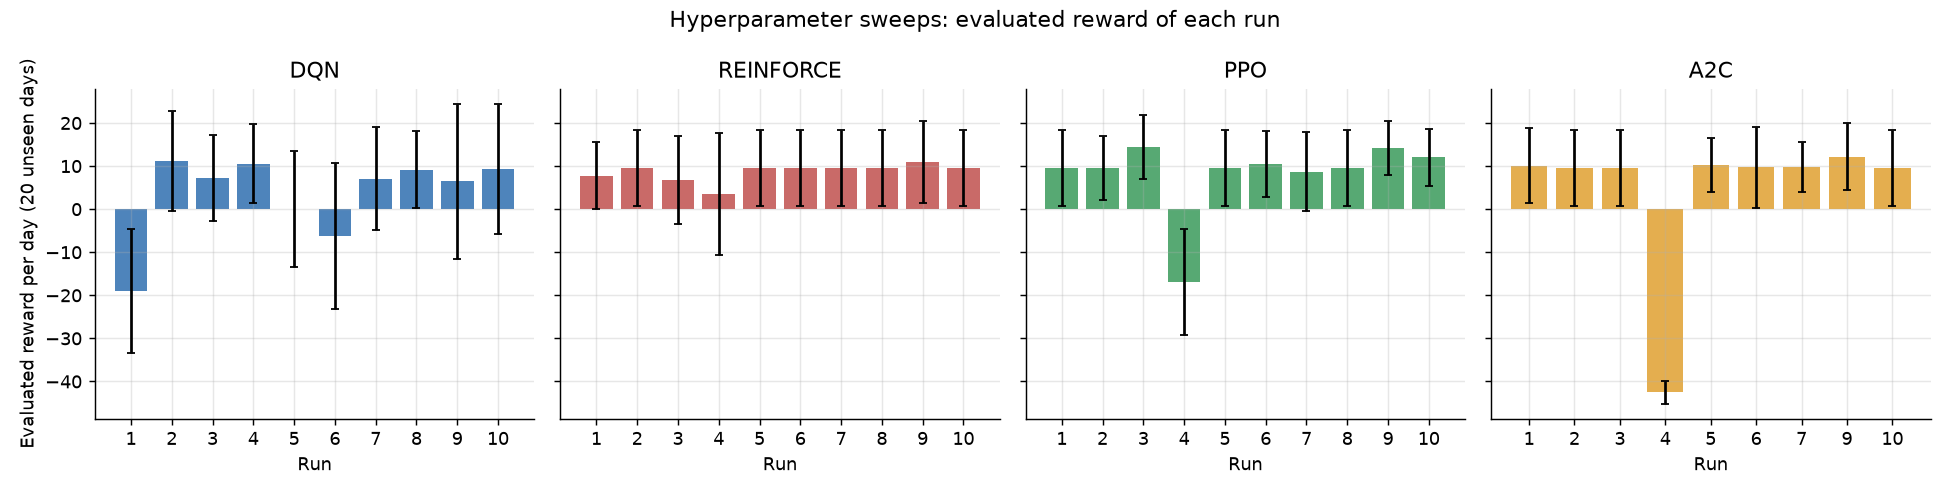
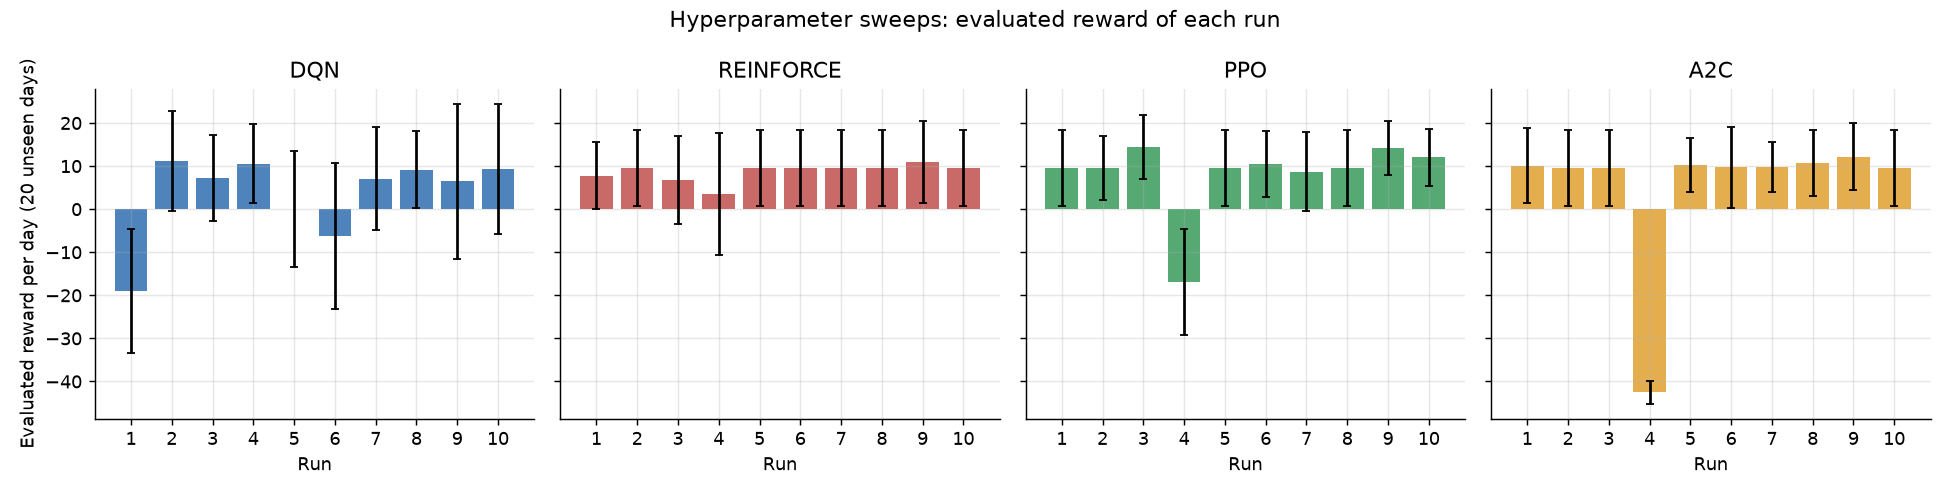
A2C run 8 and final results

Changed region(s): [[0.7692, 0.2429, 0.9846, 0.8198], [0.8, 0.8502, 0.9846, 0.9109]]

diff --git a/training/pg_training.py b/training/pg_training.py
@@ -228,18 +228,20 @@ def train_a2c(run_id, cfg, total_frames=TOTAL_FRAMES, seed=0, verbose=True):
         with torch.no_grad():
             gae(data)
         out = loss_fn(data)
-        loss = out["loss_objective"] + out["loss_critic"] + out["loss_entropy"]
+        loss = out["loss_objective"] + out["loss_critic"] + out.get("loss_entropy", torch.zeros(()))
         optim.zero_grad()
         loss.backward()
         nn.utils.clip_grad_norm_(loss_fn.parameters(), cfg["max_grad_norm"])
         optim.step()
+        with torch.no_grad():
+            ent = actor.get_dist(data).entropy().mean()
         if i % max(1, 288 // cfg["n_steps"]) == 0:     # log about twice per simulated day
-            log.log("entropy", out["entropy"].item())
+            log.log("entropy", ent.item())
             log.log("loss", out["loss_objective"].item())
             log.log("critic_loss", out["loss_critic"].item())
             log.log("loss_frame", frames)
         if verbose and i % max(1, 14400 // cfg["n_steps"]) == 0:
-            _progress("a2c", run_id, frames, total_frames, log, f"entropy {out['entropy'].item():.3f}")
+            _progress("a2c", run_id, frames, total_frames, log, f"entropy {ent.item():.3f}")
     collector.shutdown()
     return _finish("a2c", run_id, cfg, logits_net, log, frames, verbose)
 
